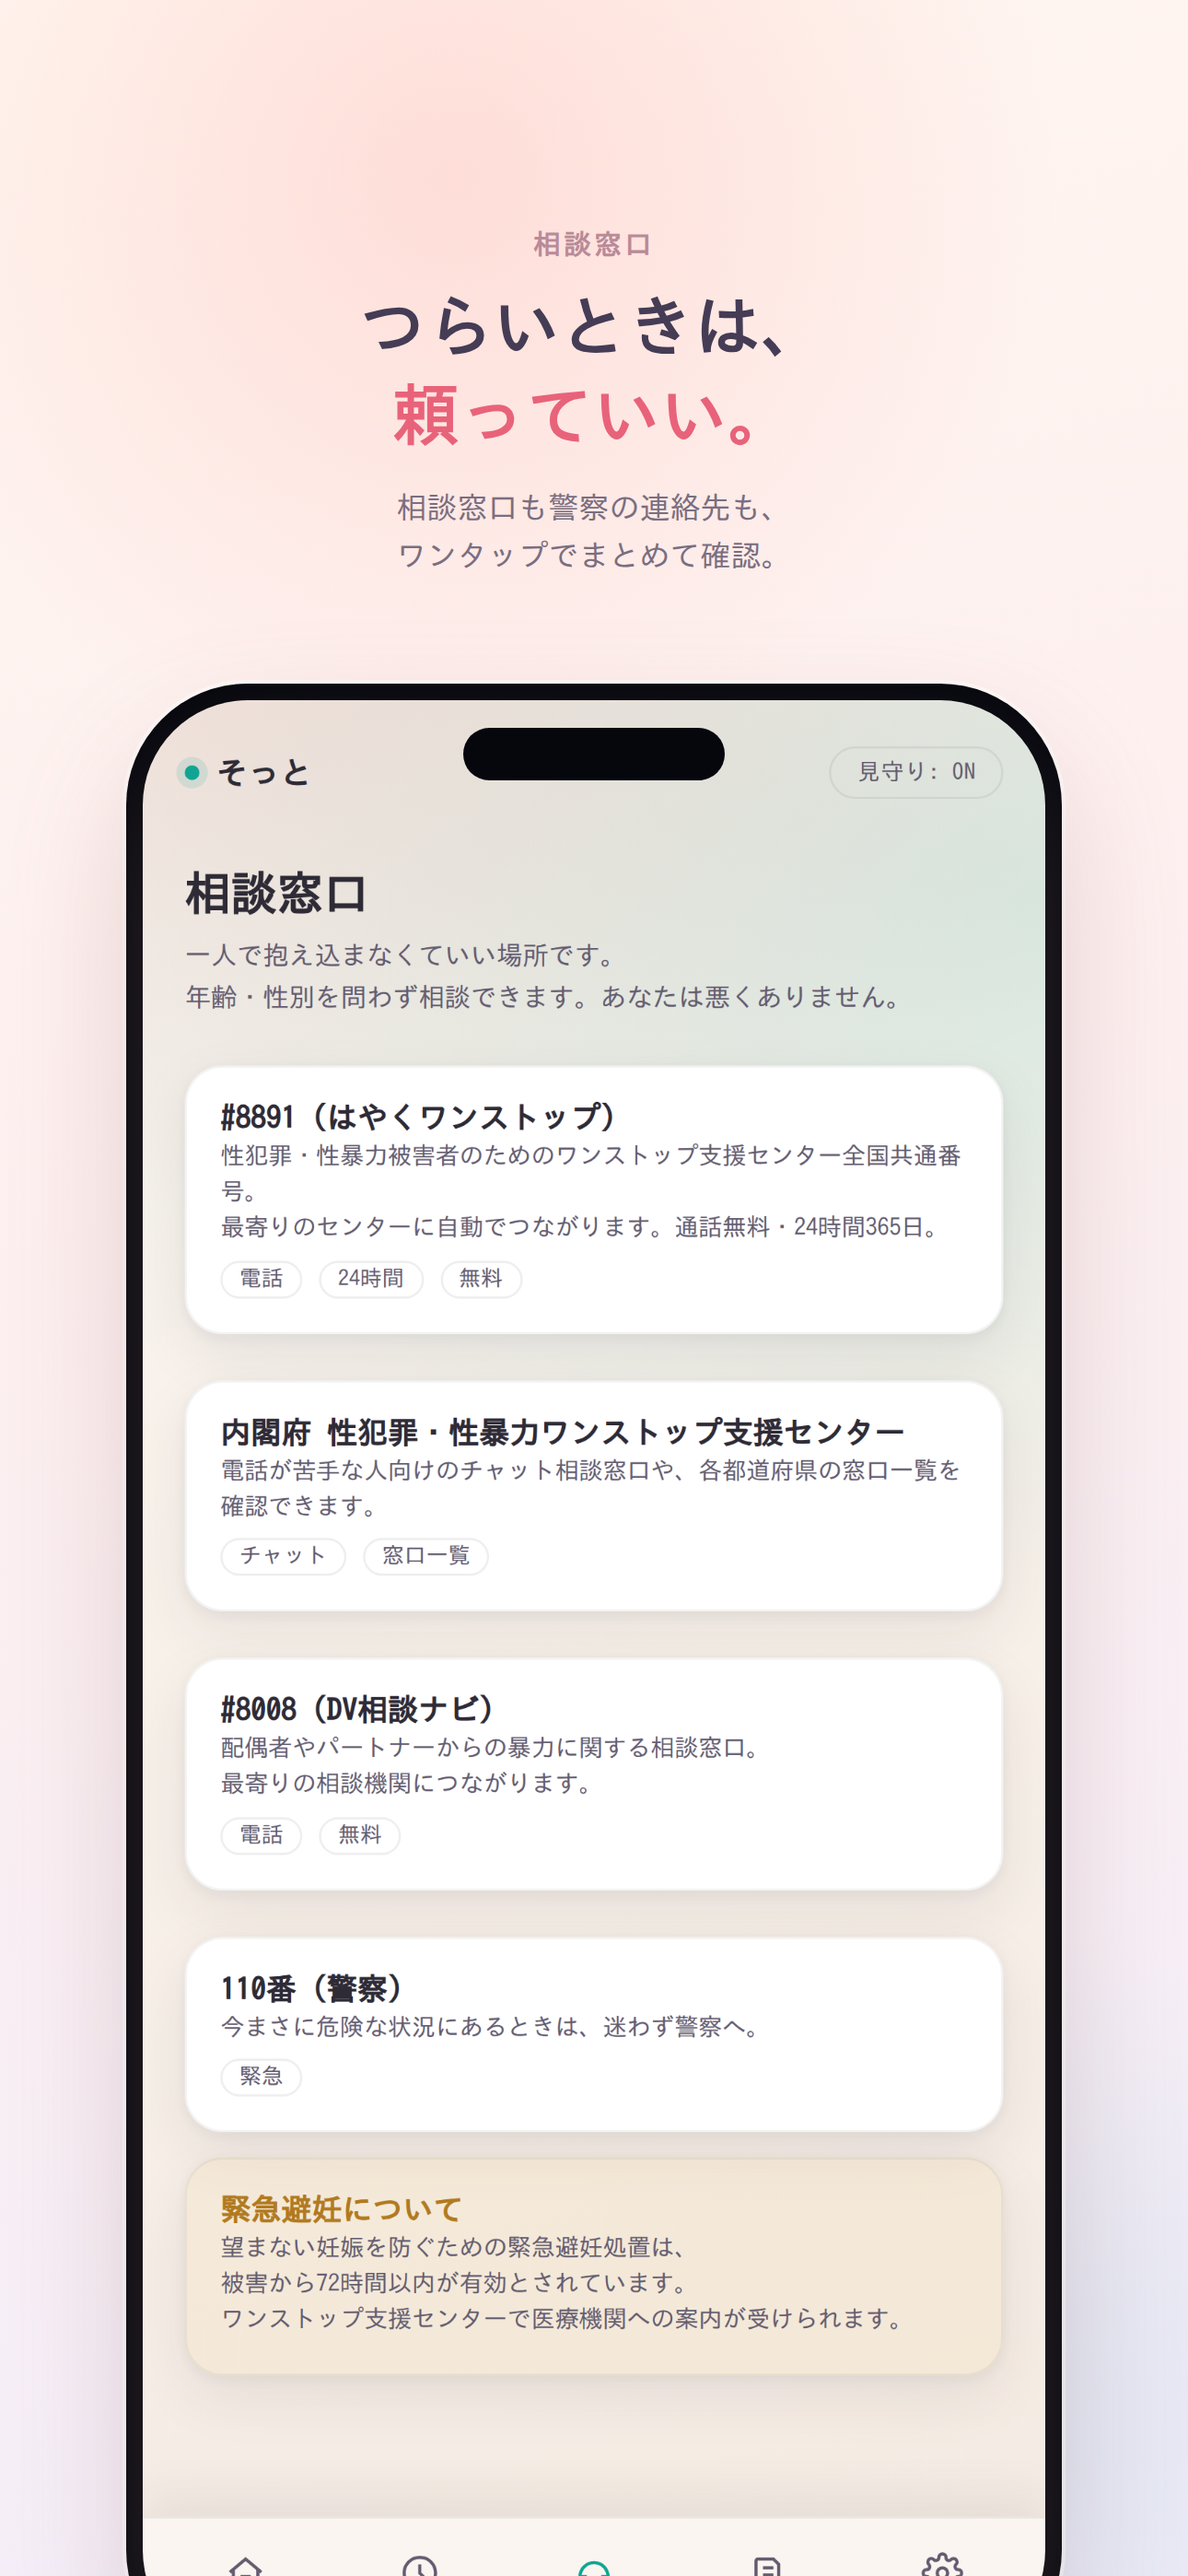
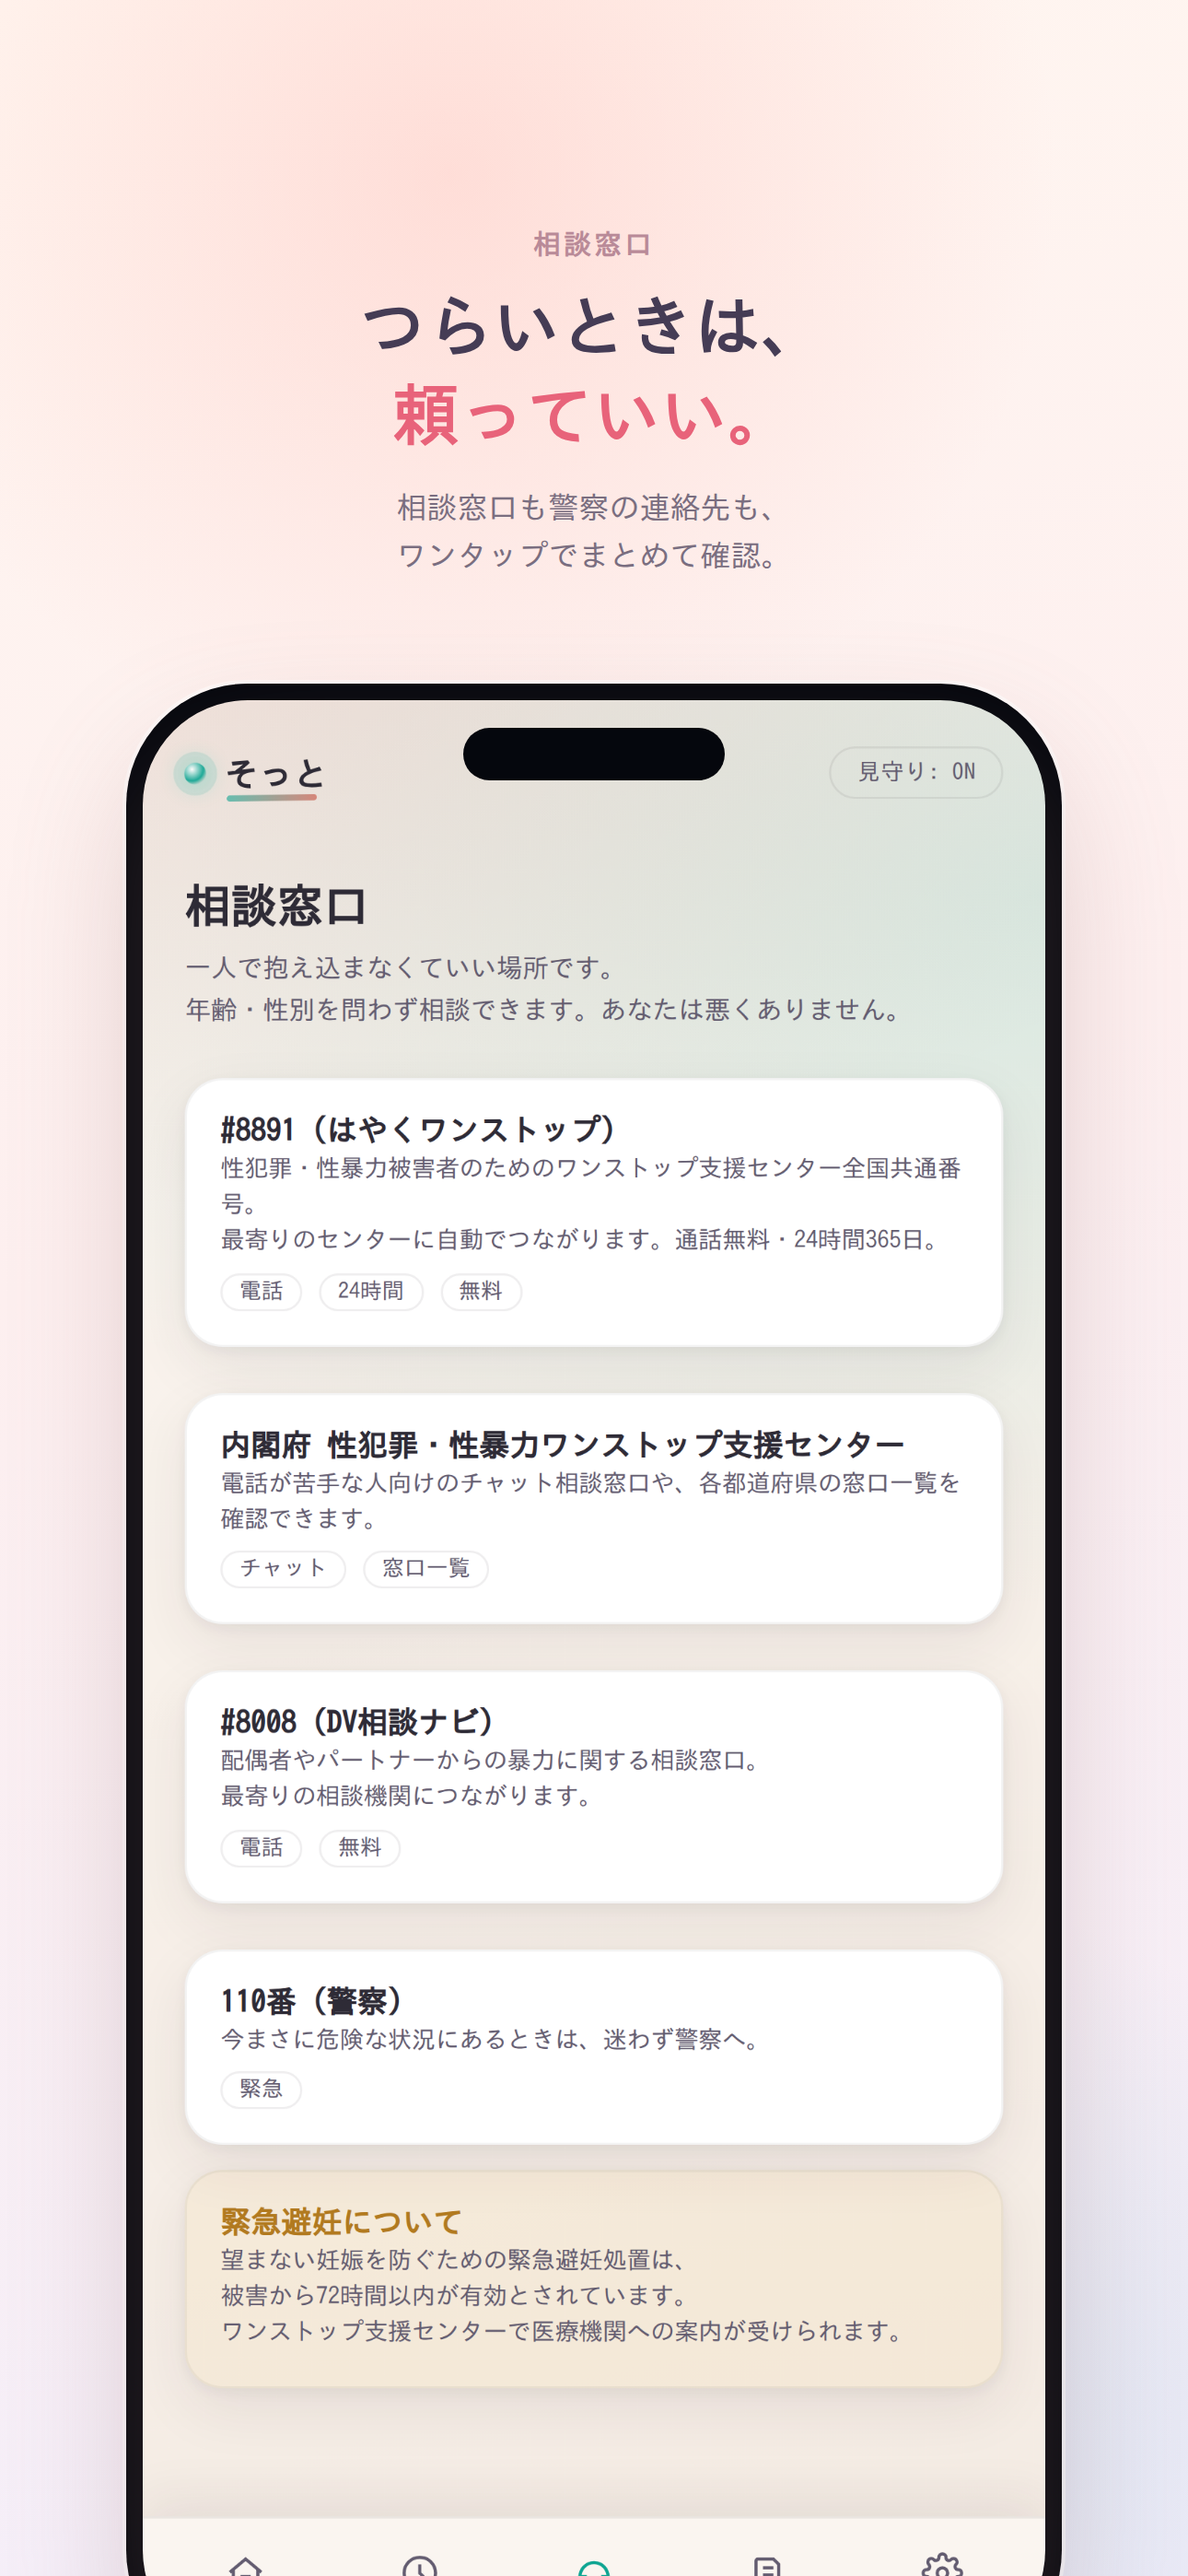
Make SOS default to 110; redesign brand mark per 2026 wordmark trends
SOS long-press now dials 110 (police) instead of #8891 (a consultation
line, not a dispatch number) in both the prototype and the real Swift
app's HomeView.triggerSOS(). #8891 stays one tap away via its own
quick-card, unchanged, for anyone who wants support without police
involvement.

Redesigned the "そっと" brand mark in the prototype's topbar, following
current logo-design trend research (wordmark-led, warm minimalism, one
memorable hand-crafted detail rather than a generic dot): the plain
flat dot became a soft breathing/glowing mark, and added a subtle
hand-drawn-style gradient underline beneath the wordmark. The real
Swift app has no equivalent persistent brand bar (it uses native
per-screen navigation titles instead), so this change is prototype-only
for now.

Changed region(s): [[0.155, 0.3423, 0.8372, 0.9335], [0.155, 0.28, 0.2791, 0.3112], [0.6202, 0.8712, 0.6512, 0.9024]]

diff --git a/prototype/safeline.html b/prototype/safeline.html
@@ -47,21 +47,41 @@
 
   /* ---------- Top status ---------- */
   .topbar{
-    padding:22px 20px 8px;
+    padding:22px 20px 14px;
     display:flex;
     align-items:center;
     justify-content:space-between;
   }
   .brand{
-    font-family:'Zen Maru Gothic',sans-serif;
-    font-weight:700;
-    font-size:15px;
-    letter-spacing:0.02em;
     display:flex;
     align-items:center;
-    gap:8px;
+    gap:9px;
   }
-  .brand .dot{width:7px;height:7px;border-radius:50%;background:var(--teal);box-shadow:0 0 0 4px var(--teal-dim);}
+  .brand .mark{
+    width:10px;height:10px;border-radius:50%;
+    background:radial-gradient(circle at 35% 30%, rgba(255,255,255,0.95), var(--teal) 55%, transparent 82%);
+    box-shadow:0 0 0 5px var(--teal-dim), 0 0 12px rgba(47,224,197,0.5);
+    animation:brandBreathe 3.6s ease-in-out infinite;
+  }
+  @keyframes brandBreathe{
+    0%,100%{transform:scale(1); opacity:1;}
+    50%{transform:scale(1.2); opacity:.7;}
+  }
+  .brand .word{
+    position:relative;
+    font-family:'Zen Maru Gothic',sans-serif;
+    font-weight:700;
+    font-size:16px;
+    letter-spacing:0.03em;
+  }
+  .brand .word::after{
+    content:'';
+    position:absolute; left:1px; right:5px; bottom:-5px; height:2.5px;
+    border-radius:2px;
+    background:linear-gradient(90deg, var(--teal), var(--coral));
+    opacity:.6;
+    transform:rotate(-1deg);
+  }
   .status-pill{
     font-size:11px;
     color:var(--text-dim);
@@ -446,7 +466,7 @@
 <div class="frame">
 
   <div class="topbar">
-    <div class="brand"><span class="dot"></span>そっと</div>
+    <div class="brand"><span class="mark"></span><span class="word">そっと</span></div>
     <div class="status-pill" id="statusPill">見守り: オフ</div>
   </div>
 
@@ -807,7 +827,9 @@ function triggerSOS(){
   setTimeout(()=>{
     // In a real build: send silent alert via background service.
     // Here we hand off to the phone's native dialer as the safest default.
-    window.location.href = 'tel:8891';
+    // 110 (police) rather than #8891 (a consultation line, not dispatch) —
+    // an "SOS" action must reach someone who can actually respond.
+    window.location.href = 'tel:110';
   }, 900);
 }
 

diff --git a/SafeLineiOS/SafeLine/Views/HomeView.swift b/SafeLineiOS/SafeLine/Views/HomeView.swift
@@ -109,10 +109,15 @@ struct HomeView: View {
         let generator = UIImpactFeedbackGenerator(style: .heavy)
         generator.impactOccurred()
         withAnimation { holdProgress = 0 }
-        callNumber("8891")
+        callNumber("110")
         // Design note: iOS requires a visible, confirmable action for both calls and
         // SMS — there is no silent background dispatch. Treat this as the primary,
         // most reliable escalation path rather than a background side-channel.
+        //
+        // 110 (police), not #8891: #8891 is a consultation line, not a dispatch
+        // number, so an action explicitly framed as "SOS" needs to reach someone
+        // who can actually respond. #8891 stays one tap away via the quick-card
+        // below for anyone who wants support rather than police involvement.
     }
 
     private func callNumber(_ number: String) {
